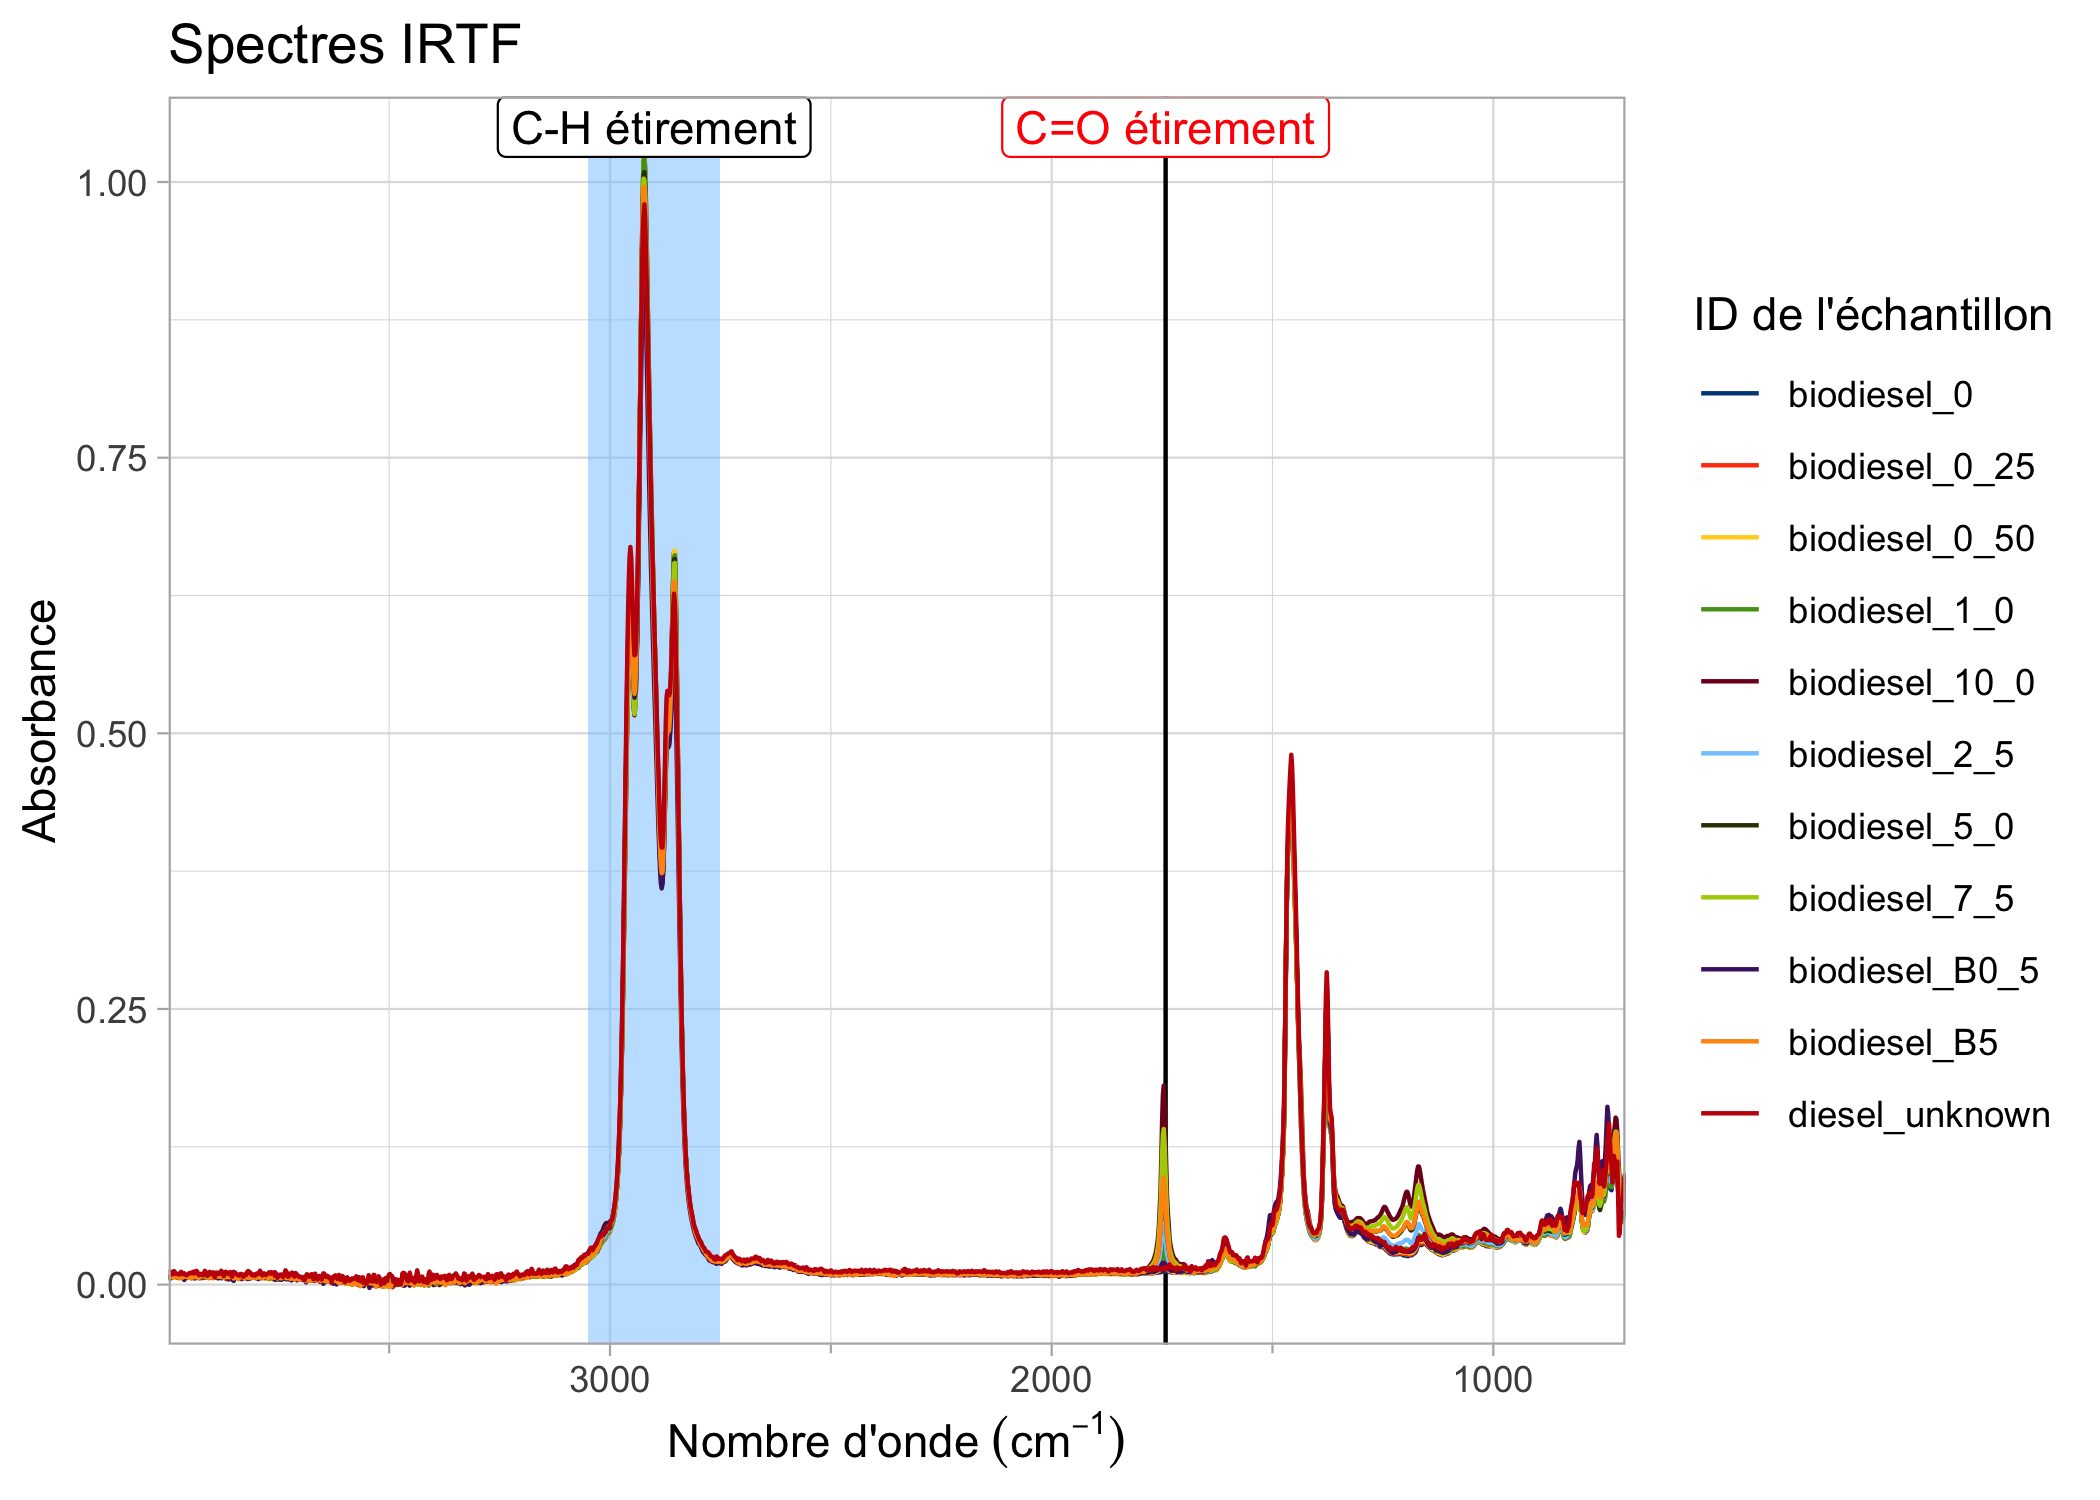
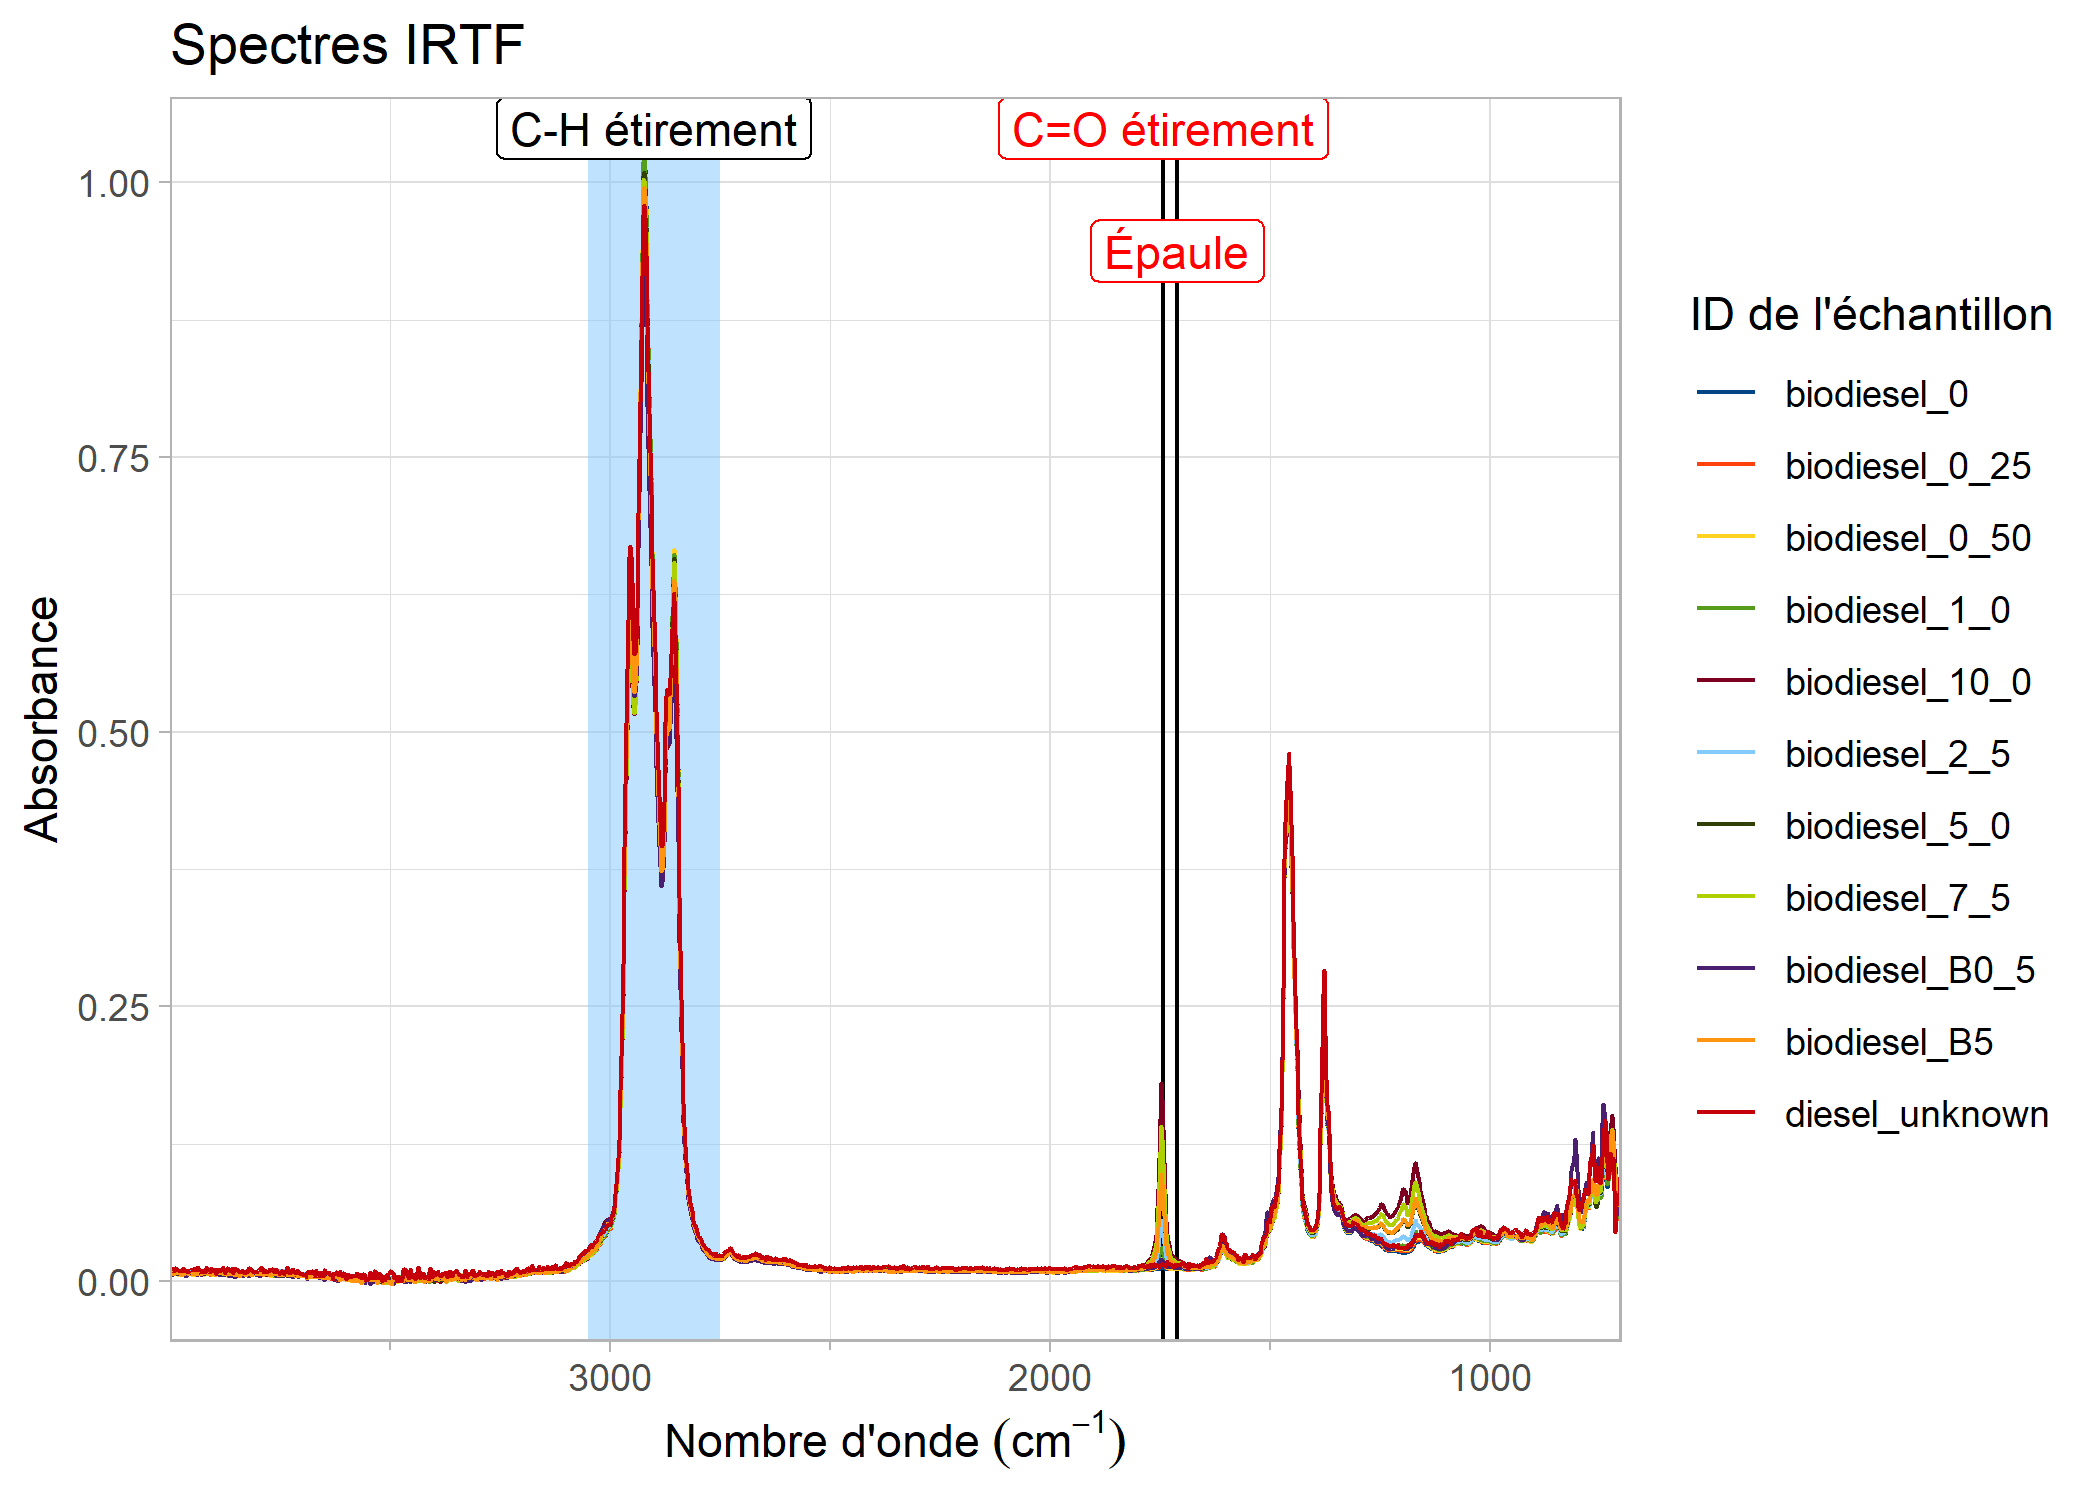
docs: demonstrate vertical peak alignment in README (#38)

diff --git a/README.md b/README.md
@@ -112,25 +112,35 @@ FTIR spectra of biodiesel samples, with low-energy region compressed.
 </div>
 
 You can also add marker lines (with labels) at specific wavenumbers on
-the plots, controlling their line or text properties as needed.
-Similarly, a shaded band can be added to indicate a region.
+the plots, controlling their line or text properties as needed. When
+labels are close together, you can align them vertically by adjusting
+`vjust` in `label_aesthetics`. Similarly, a shaded band can be added to
+indicate a region.
 
 ``` r
 biodiesel_marked <- add_wavenumber_marker(biodiesel_plot,
   wavenumber = 1742,
   text = "C=O Stretch",
   label_aesthetics = list("color" = "red")
-) 
+)
+
+biodiesel_marked <- add_wavenumber_marker(biodiesel_marked,
+  wavenumber = 1710,
+  text = "Shoulder",
+  label_aesthetics = list("color" = "red", "vjust" = 3)
+)
+
 add_band(biodiesel_marked, c(2750,3050), "C-H Stretch")
 ```
 
 <div class="figure">
 
-<img src="man/figures/README-biodiesel_labelled_en-1.png" alt="FTIR spectra of biodiesel samples, with a marker at 1742 cm-1 indicating C=O stretch, and a coloured band from 3050 to 2750 for C-H stretch." width="66.67%" />
+<img src="man/figures/README-biodiesel_labelled_en-1.png" alt="FTIR spectra of biodiesel samples, with vertically aligned peak labels at 1742 and 1710 cm-1 and a coloured band from 3050 to 2750 for C-H stretch." width="66.67%" />
 <p class="caption">
 
-FTIR spectra of biodiesel samples, with a marker at 1742 cm-1 indicating
-C=O stretch, and a coloured band from 3050 to 2750 for C-H stretch.
+FTIR spectra of biodiesel samples, with vertically aligned peak labels
+at 1742 and 1710 cm-1 and a coloured band from 3050 to 2750 for C-H
+stretch.
 </p>
 
 </div>
@@ -189,7 +199,7 @@ An example of the `biodiesel` data set is below:
 ``` r
 head(biodiesel)
 #> PlotFTIR data:
-#>   Spectral range: 700.7395 - 710.0579 cm⁻¹
+#>   Spectral range: 700.7395 - 710.0579 cm⁻¹ 
 #>   Resolution: variable
 #>   Intensity type: absorbance 
 #>   Number of samples: 1 
@@ -256,7 +266,7 @@ plotted. The functions `absorbance_to_transmittance()` and
 biodiesel_transm <- absorbance_to_transmittance(biodiesel)
 head(biodiesel_transm)
 #> PlotFTIR data:
-#>   Spectral range: 700.7395 - 710.0579 cm⁻¹
+#>   Spectral range: 700.7395 - 710.0579 cm⁻¹ 
 #>   Resolution: variable
 #>   Intensity type: transmittance 
 #>   Number of samples: 1 
@@ -286,8 +296,6 @@ subset_spectrum <- subset_spectrum[subset_spectrum$wavenumber < 2000 & subset_sp
 fitted <- fit_peaks(subset_spectrum, method = "voigt")
 
 plot_fit_ftir_peaks(ftir = subset_spectrum, fitted_peaks = fitted, plot_components = TRUE)
-#> Scale for colour is already present.
-#> Adding another scale for colour, which will replace the existing scale.
 #> Loading required namespace: gghighlight
 ```
 
@@ -336,14 +344,14 @@ citation("PlotFTIR")
 #> To cite package 'PlotFTIR' in publications use:
 #> 
 #>   Bulsink P (????). _PlotFTIR: Plot FTIR Spectra_. R package version
-#>   1.3.0.9000, <https://github.com/NRCan/PlotFTIR>.
+#>   1.3.1.9000, <https://github.com/NRCan/PlotFTIR>.
 #> 
 #> A BibTeX entry for LaTeX users is
 #> 
 #>   @Manual{,
 #>     title = {PlotFTIR: Plot FTIR Spectra},
 #>     author = {Philip Bulsink},
-#>     note = {R package version 1.3.0.9000},
+#>     note = {R package version 1.3.1.9000},
 #>     url = {https://github.com/NRCan/PlotFTIR},
 #>   }
 ```
@@ -462,26 +470,35 @@ Spectres FTIR d’échantillons de biodiesel, avec la région de basse
 
 Vous pouvez également ajouter des lignes de marqueur (avec des
 étiquettes) à des numéros d’onde spécifiques sur les tracés, en
-contrôlant leurs propriétés de ligne ou de texte selon vos besoins. De
-même, une bande ombrée peut être ajoutée pour indiquer une région.
+contrôlant leurs propriétés de ligne ou de texte selon vos besoins.
+Lorsque les étiquettes sont proches, vous pouvez les aligner
+verticalement en ajustant `vjust` dans `label_aesthetics`. De même, une
+bande ombrée peut être ajoutée pour indiquer une région.
 
 ``` r
 biodiesel_marked <- add_wavenumber_marker(biodiesel_trace,
   wavenumber = 1742,
   text = "C=O étirement",
   label_aesthetics = list("color" = "red")
-) 
+)
+
+biodiesel_marked <- add_wavenumber_marker(biodiesel_marked,
+  wavenumber = 1710,
+  text = "Épaule",
+  label_aesthetics = list("color" = "red", "vjust" = 3)
+)
+
 add_band(biodiesel_marked, c(2750,3050), "C-H étirement")
 ```
 
 <div class="figure">
 
-<img src="man/figures/README-biodiesel_labelled_fr-1.png" alt="Spectres FTIR d'échantillons de biodiesel, avec un marqueur à 1742 cm-1 indiquant l'élongation C=O et une bande colorée de 3050 à 2750 pour l'élongation C-H." width="66.67%" />
+<img src="man/figures/README-biodiesel_labelled_fr-1.png" alt="Spectres FTIR d'échantillons de biodiesel, avec des étiquettes de pics alignées verticalement à 1742 et 1710 cm-1, et une bande colorée de 3050 à 2750 pour l'élongation C-H." width="66.67%" />
 <p class="caption">
 
-Spectres FTIR d’échantillons de biodiesel, avec un marqueur à 1742 cm-1
-indiquant l’élongation C=O et une bande colorée de 3050 à 2750 pour
-l’élongation C-H.
+Spectres FTIR d’échantillons de biodiesel, avec des étiquettes de pics
+alignées verticalement à 1742 et 1710 cm-1, et une bande colorée de 3050
+à 2750 pour l’élongation C-H.
 </p>
 
 </div>
@@ -597,7 +614,7 @@ Un exemple de l’ensemble de données `biodiesel` est ci-dessous:
 ``` r
 head(biodiesel)
 #> PlotFTIR data:
-#>   Spectral range: 700.7395 - 710.0579 cm⁻¹
+#>   Spectral range: 700.7395 - 710.0579 cm⁻¹ 
 #>   Resolution: variable
 #>   Intensity type: absorbance 
 #>   Number of samples: 1 
@@ -615,7 +632,7 @@ et `transmittance_to_absorbance()` effectuent ces conversions.
 biodiesel_transm <- absorbance_to_transmittance(biodiesel)
 head(biodiesel_transm)
 #> PlotFTIR data:
-#>   Spectral range: 700.7395 - 710.0579 cm⁻¹
+#>   Spectral range: 700.7395 - 710.0579 cm⁻¹ 
 #>   Resolution: variable
 #>   Intensity type: transmittance 
 #>   Number of samples: 1 
@@ -646,8 +663,6 @@ subset_spectrum <- subset_spectrum[subset_spectrum$wavenumber < 2000 & subset_sp
 
 fitted <- fit_peaks(subset_spectrum, method = "voigt")
 plot_fit_ftir_peaks(ftir = subset_spectrum, fitted_peaks = fitted, plot_components = TRUE)
-#> Scale for colour is already present.
-#> Adding another scale for colour, which will replace the existing scale.
 ```
 
 <div class="figure">
@@ -698,14 +713,14 @@ citation("PlotFTIR")
 #> To cite package 'PlotFTIR' in publications use:
 #> 
 #>   Bulsink P (????). _PlotFTIR: Plot FTIR Spectra_. R package version
-#>   1.3.0.9000, <https://github.com/NRCan/PlotFTIR>.
+#>   1.3.1.9000, <https://github.com/NRCan/PlotFTIR>.
 #> 
 #> A BibTeX entry for LaTeX users is
 #> 
 #>   @Manual{,
 #>     title = {PlotFTIR: Plot FTIR Spectra},
 #>     author = {Philip Bulsink},
-#>     note = {R package version 1.3.0.9000},
+#>     note = {R package version 1.3.1.9000},
 #>     url = {https://github.com/NRCan/PlotFTIR},
 #>   }
 ```
